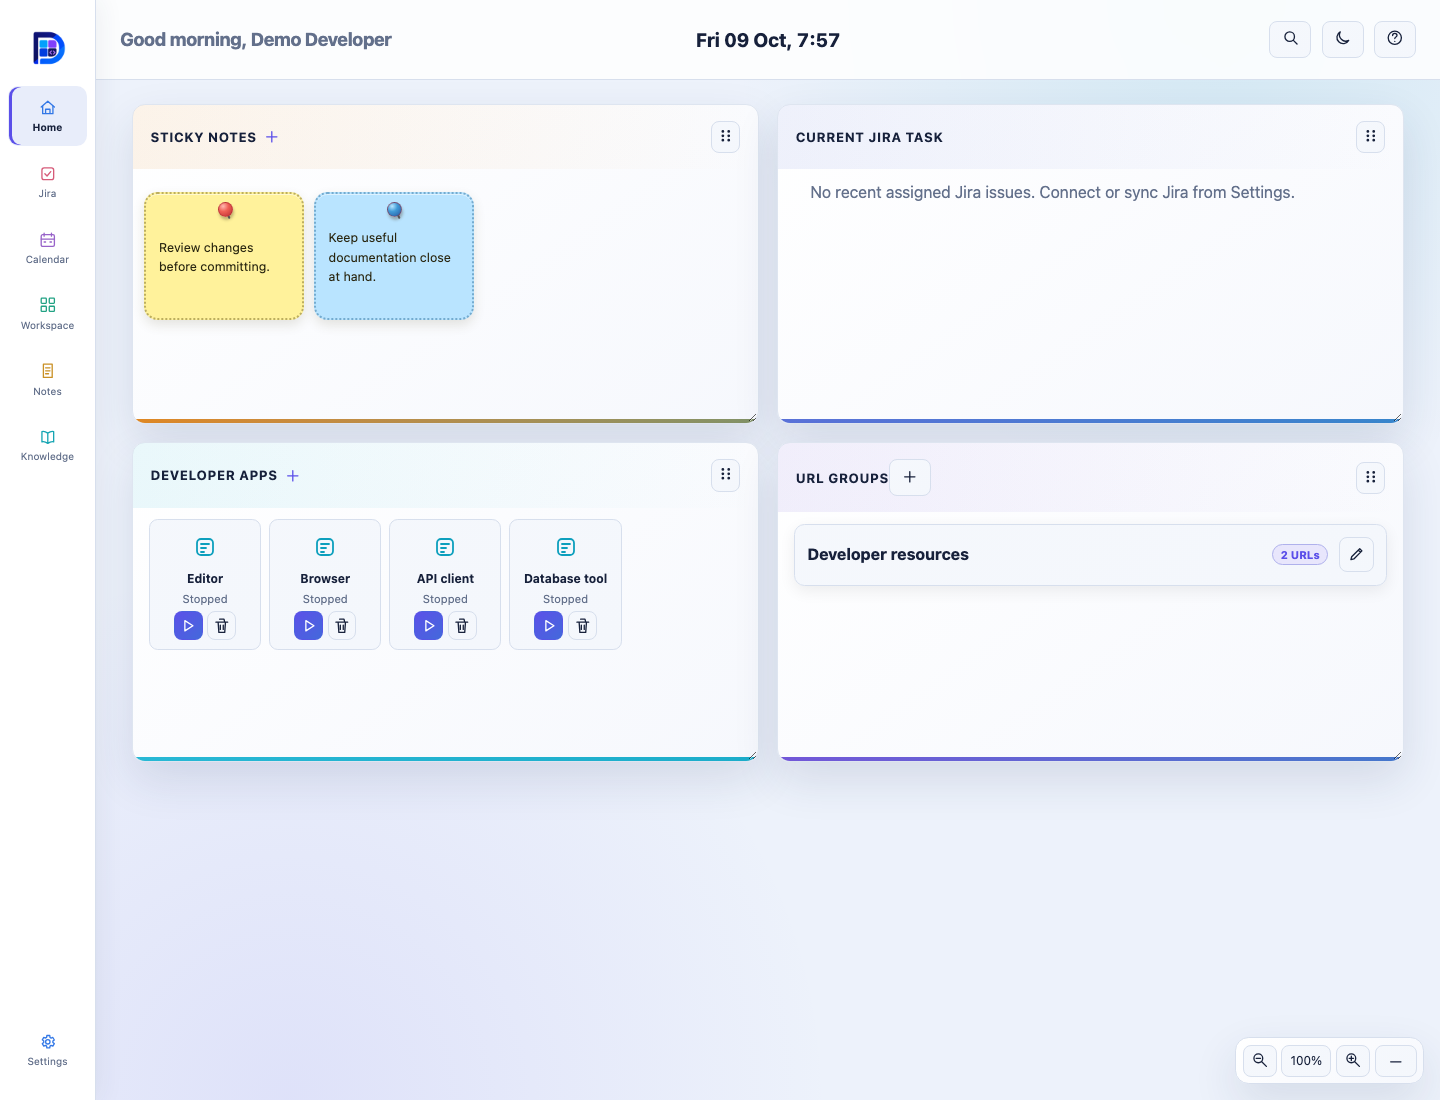
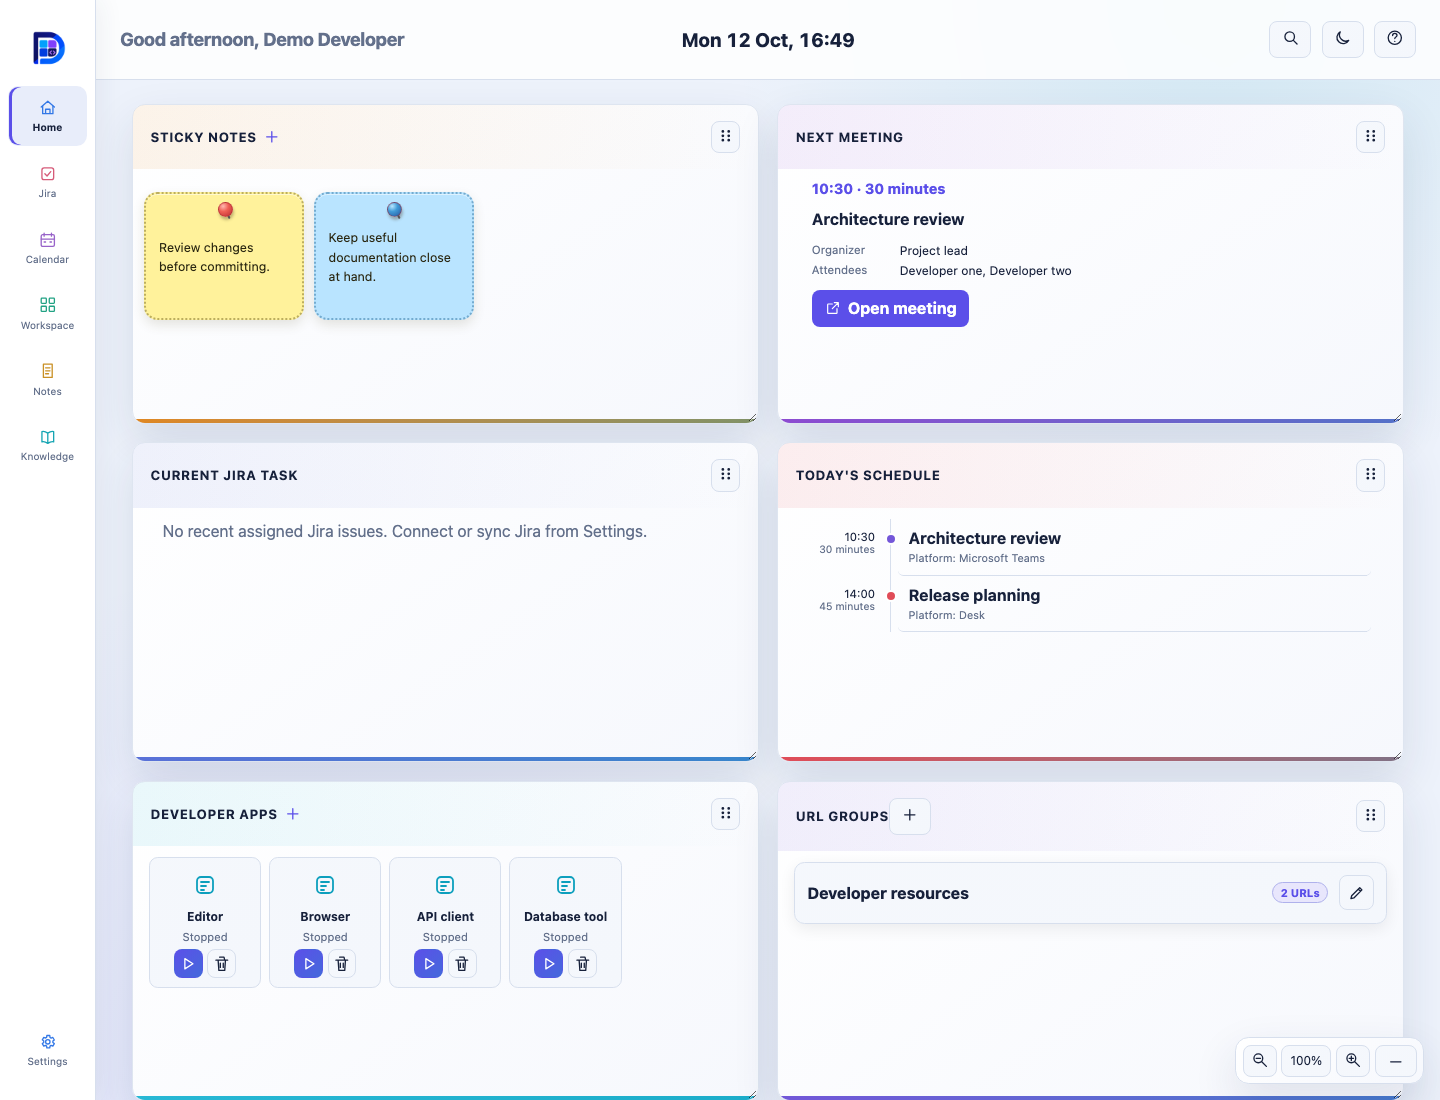
Release version 0.1.23

diff --git a/src/webview/app/walkthroughScript.ts b/src/webview/app/walkthroughScript.ts
@@ -17,7 +17,7 @@ const tourSteps=[
 ];
 // Update these highlights alongside release notes when shipping new features.
 const updateSteps=[
- {page:"settings",title:"Import a local calendar",text:"In Local JSON Calendars, choose Events or Holidays and select a JSON file. Configured files refresh every five minutes while the dashboard is open."},
+ {page:"settings",title:"Import a local calendar",text:"In Local JSON Calendars, select an Events or Holidays file. Home shows the next meeting and today's timeline; configured files refresh every five minutes."},
  {page:"calendar",title:"Filter the Planner",text:"Use All sources or select one imported file. The Plans, Meetings, Holidays and Leave toggles narrow the calendar view."},
  {page:"workspace",title:"Load GitHub organizations in batches",text:"Refresh GitHub to load the first organizations. If more are available, use the plus icon beside the repository filters."}
 ];

diff --git a/README.md b/README.md
@@ -91,7 +91,51 @@ Choose **Holiday** for an inclusive date range and pick its color (gold by defau
 
 Local plans, holidays and leave stay in your database and its snapshots. Nothing is sent to external calendars.
 
-To show meetings from a local JSON export, open **Settings → Local JSON Calendars**, choose **Events** and select the file with VS Code’s file picker. Use an array of Outlook-style events or `{ "value": [...] }`; each event needs `subject`, `start` and `end` as `{ "dateTime": "2026-10-12T10:00:00", "timeZone": "UTC" }` (or `startWithTimeZone` / `endWithTimeZone` with an ISO offset). Optional `bodyPreview` and HTTPS `webLink` or `onlineMeeting.joinUrl` are shown on the event. For holidays choose **Holidays** and use `{ "year": 2026, "holidays": [{ "date": "2026-12-25", "title": "Holiday" }] }`. The year must match every holiday date. JSON sources are read-only, limited to five files, 20 MB and 5,000 entries per file. File paths stay in extension-host storage; no file content is sent to a service. Refresh a source on Calendar after editing its file, or restart the extension. The last loaded entries remain visible if refresh fails.
+To show meetings from a local JSON export, open **Settings → Local JSON Calendars**, choose **Events** and select the file with VS Code’s file picker. The root may be the event array itself or an object with a `value` array:
+
+```json
+{
+  "value": [
+    {
+      "subject": "Architecture review",
+      "start": { "dateTime": "2026-10-12T10:00:00", "timeZone": "UTC" },
+      "end": { "dateTime": "2026-10-12T10:30:00", "timeZone": "UTC" },
+      "bodyPreview": "Review the proposed service boundaries.",
+      "organizer": { "emailAddress": { "name": "Project lead" } },
+      "attendees": [
+        { "emailAddress": { "name": "Developer one" } },
+        { "emailAddress": { "address": "developer.two@example.test" } }
+      ],
+      "location": { "displayName": "Microsoft Teams" },
+      "webLink": "https://outlook.office.com/calendar/item/example",
+      "onlineMeeting": { "joinUrl": "https://teams.microsoft.com/l/meetup-join/example" }
+    }
+  ]
+}
+```
+
+`subject`, `start` and `end` are required. Use `timeZone: "UTC"` with a local-looking `dateTime`, as above, or supply `startWithTimeZone` and `endWithTimeZone` as ISO timestamps containing `Z` or an explicit offset. `bodyPreview`, organizer, attendees, location, `webLink` and `onlineMeeting.joinUrl` are optional. Only HTTPS meeting links are accepted.
+
+For a yearly holiday file, choose **Holidays** and use:
+
+```json
+{
+  "year": 2026,
+  "holidays": [
+    {
+      "date": "2026-01-01",
+      "title": "New Year's Day",
+      "description": "Public holiday"
+    },
+    {
+      "date": "2026-12-25",
+      "title": "Holiday"
+    }
+  ]
+}
+```
+
+`date` and `title` are required; `description` is optional. Every date must use `YYYY-MM-DD` and match the root `year`. The root may also be a holiday array when no year check is needed. JSON sources are read-only, limited to five files, 20 MB and 5,000 entries per file. File paths stay in extension-host storage; no file content is sent to a service. The last loaded entries remain visible if refresh fails.
 
 Use Calendar’s **Plans**, **Meetings**, **Holidays** and **Leave** toggles to filter the view. Home shows the next meeting with its organizer, attendees and join action, plus today’s schedule as a compact timeline. Configured JSON files are re-read when the dashboard opens and every five minutes while it remains open; the last valid data stays visible if a refresh fails.
 
